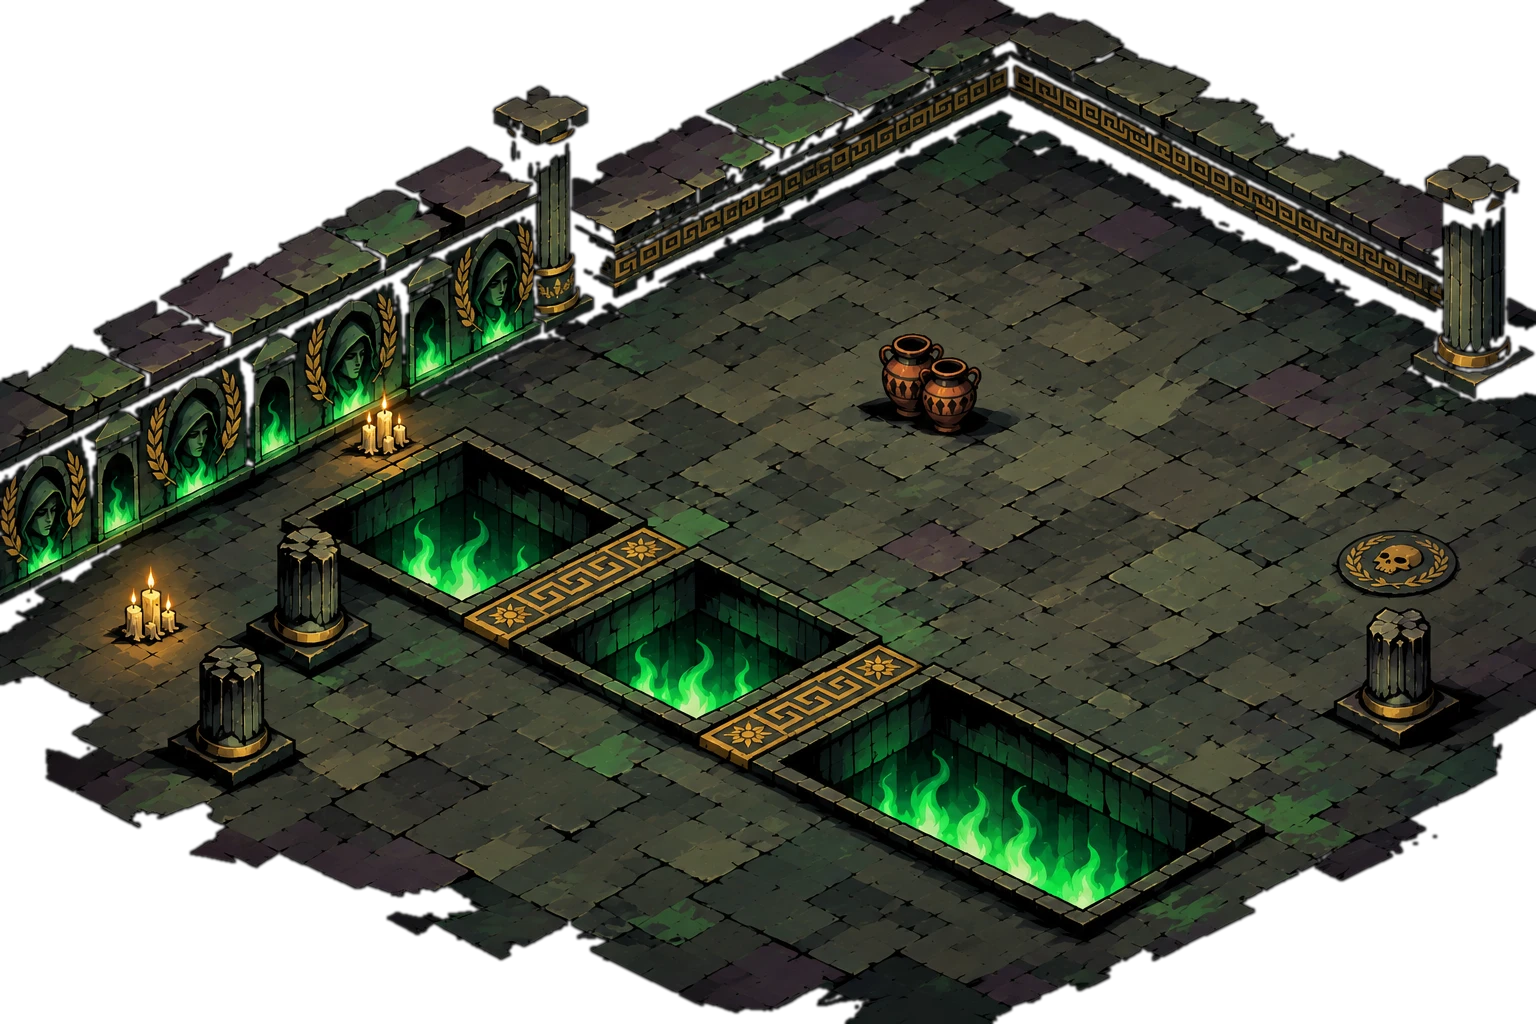
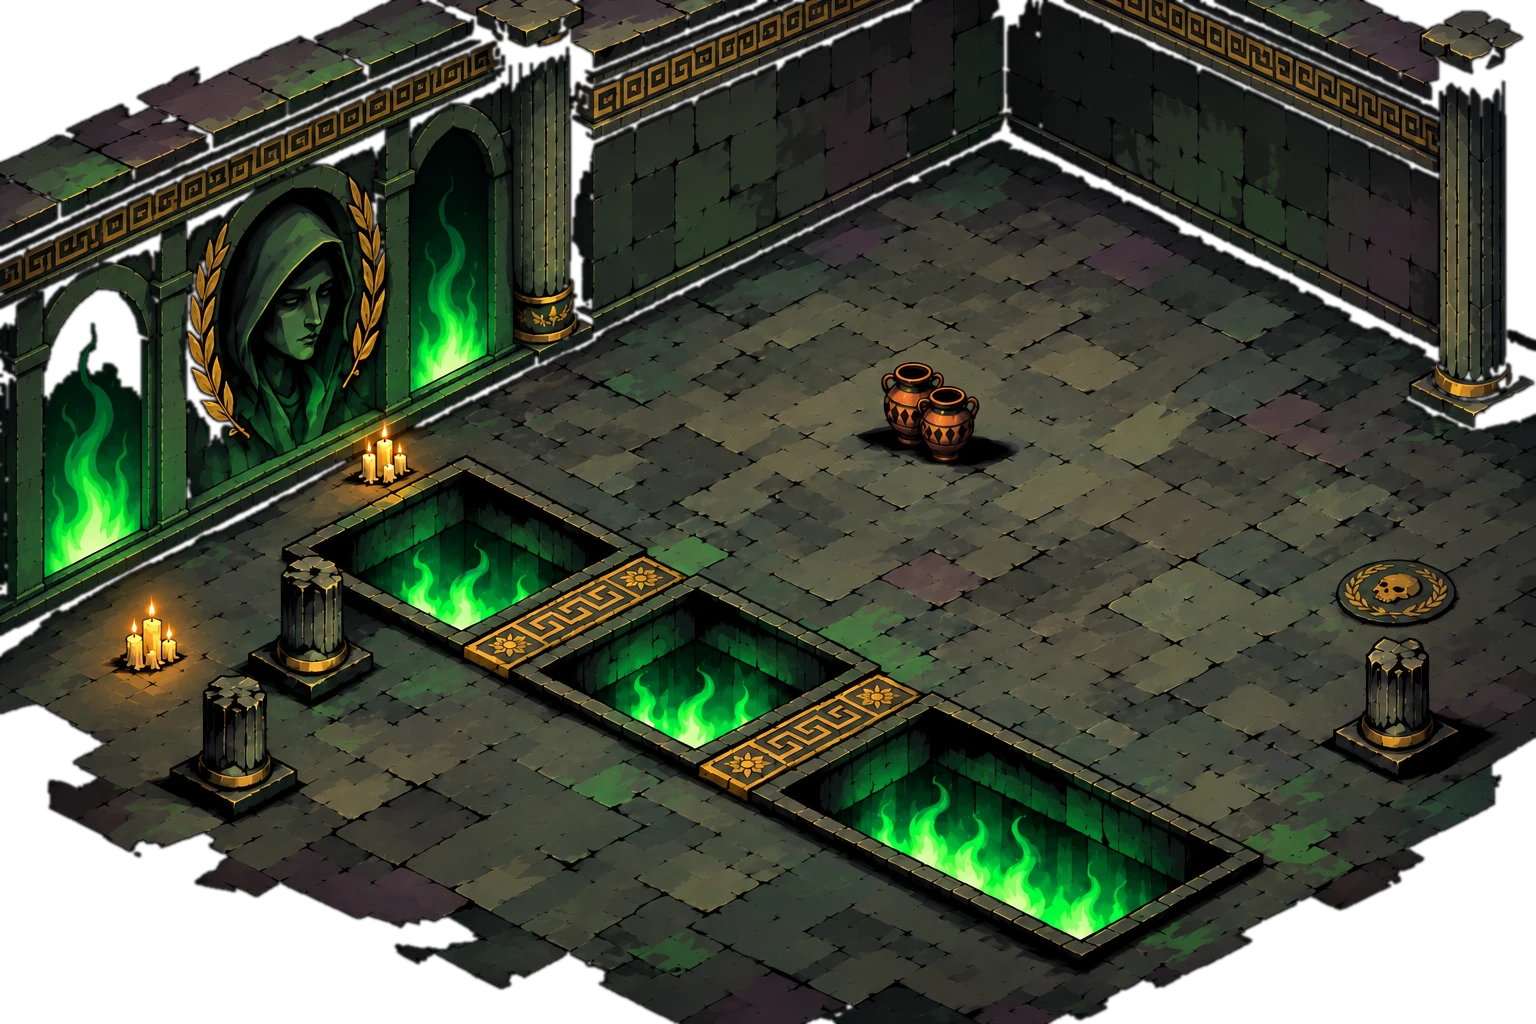
Use the owner's tall-walled SOL painting for the temple room
The owner repainted the temple room with SOL: towering back walls with a
giant hooded-figure mural, arched soul-fire niches and columns, as in the
mockup. It follows paint guide temple_01's framing, and the floor layout
is unchanged since that guide, so it imports with that camera and lines
up with the pits, bridges, columns and props.

Painted walls no longer take the room's lights at full strength: a light
right against a flat painted surface made hard bright dots on the walls.
They now only tint the painting softly (its own light is painted in).

Claude-Session: https://claude.ai/code/session_01MbTDeRJvHASbrFUJZHJ2fV

diff --git a/docs/paint_guides/README.md b/docs/paint_guides/README.md
@@ -12,7 +12,7 @@ the architecture where it is.
 | `temple_02_guide.png` | **current** 1536×1024 frame of the temple room (`--level=temple`), tall back walls, no HUD, no player |
 | `temple_02_lines.png` | the same frame as line art, for generators that follow outlines more strictly |
 | `temple_02_guide.json` | where the frame looks: `world_to_image` maps game positions to image pixels |
-| `temple_01_*` | the first guide (low back walls) and the owner's SOL painting of it (`temple_01_painted_sol.webp`); superseded when the back walls became 6 m tall |
+| `temple_01_*` | the first guide (closer framing). `temple_01_painted_sol.webp` is the first SOL painting (low walls); **`temple_01_painted_sol_v2_tall.webp` is the one in the game**: tall walls, painted at this guide's framing (the floor layout didn't change when the walls grew, so this guide's camera still fits) |
 
 Make a new guide (any room, any framing):
 
@@ -68,7 +68,9 @@ Send the result back as a PNG file (not pasted inline) so it can be imported.
 python3 tools/rooms/import_room_paint.py PAINTING docs/paint_guides/temple_02_guide.json temple_02
 ```
 
-writes `assets/rooms/temple_02.png/.json`; then list `"res://assets/rooms/temple_02"` in
+writes `assets/rooms/temple_02.png/.json`. Use the camera JSON of the guide the painting
+actually follows (overlay its `_lines.png` on the painting to check: pits, columns and
+urns should line up); then list `"res://assets/rooms/temple_02"` in
 the layout's `PAINTS` (see `layout_temple.gd`) and run `godot --headless --path . --import`.
 `--no-paint` shows the room without it. The painting must have **pure black** outside
 the floor: that black, where it touches the image border, becomes transparent.

diff --git a/CLAUDE.md b/CLAUDE.md
@@ -105,7 +105,9 @@ All of this is playable, and a bot plays the whole route without errors:
   - Locked Kennels arena (nests spawn hounds until destroyed).
   - Stormwalk (shock-plate hazard).
   - Hall of the Legion (elite finale) → descent portal to depth N+1, with harder enemies.
-- **Temple look-test room** (`--level=temple`, `layout_temple.gd`), built toward mockup 01:
+- **Temple look-test room** (`--level=temple`, `layout_temple.gd`), built toward mockup 01
+  and now covered by the owner's SOL painting (`assets/rooms/temple_01`, see "Paint guides
+  and room paintings"); `--no-paint` shows the kit underneath:
   soul-fire pits with capstone lips (the owner's pit pack), gold Greek-key bridges with
   sunburst medallions, mural walls with the hooded figure and laurels, green fire niches,
   dark green columns, grey slab floor. **The owner's goal (2026-11-27): make this room
